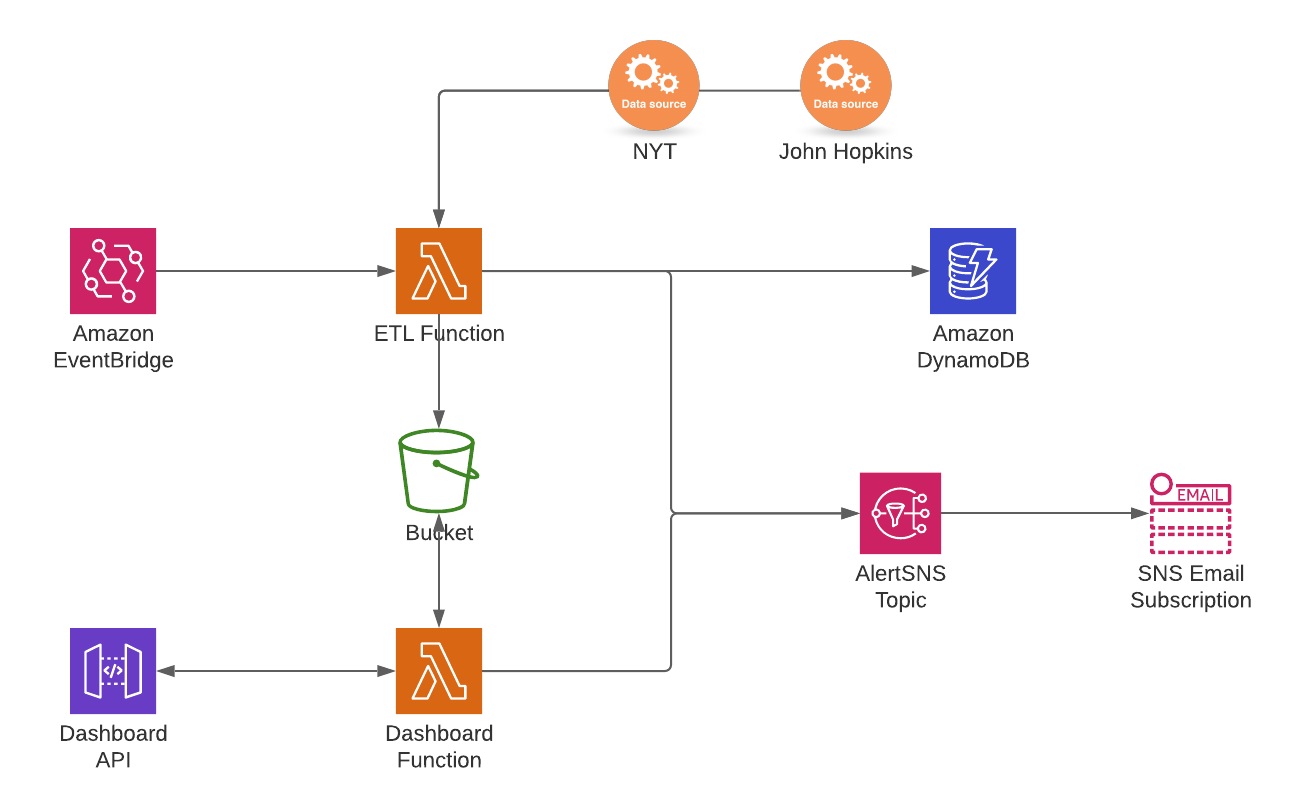
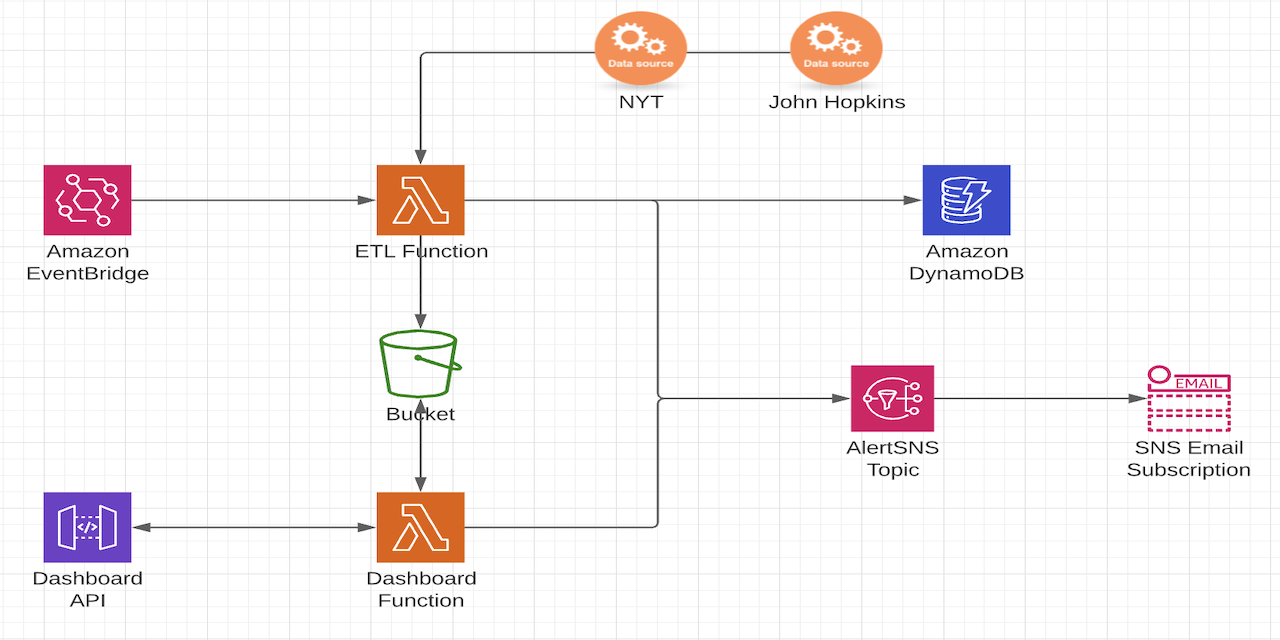
image update complete

Changed region(s): [[0.0, 0.0, 1.0, 0.9688]]

diff --git a/README.md b/README.md
@@ -3,7 +3,7 @@
 ## Overview
 Runs an ETL job on two data sources ([NYT](https://github.com/nytimes/covid-19-data/blob/master/us.csv?opt_id=oeu1600284808955r0.2700974837928787), [John Hopkins](https://raw.githubusercontent.com/datasets/covid-19/master/data/time-series-19-covid-combined.csv?opt_id=oeu1600284808955r0.2700974837928787)) and displays the data on a [dashboard](https://app.redash.io/logan-toler/public/dashboards/bQv4OpTwd8oZ2NHjT31gtjtIFiDayXu1XPK0NbTM).
 
-![Covid ETL Architecture](covid-etl-architecture1.png)
+![Covid ETL Architecture](covid-etl-architecture.png)
 
 ### ETL Function
 - Performs an ETL job within memory on a single Lambda function and the resulting data is loaded into DynamoDB and saved as a CSV in S3.
